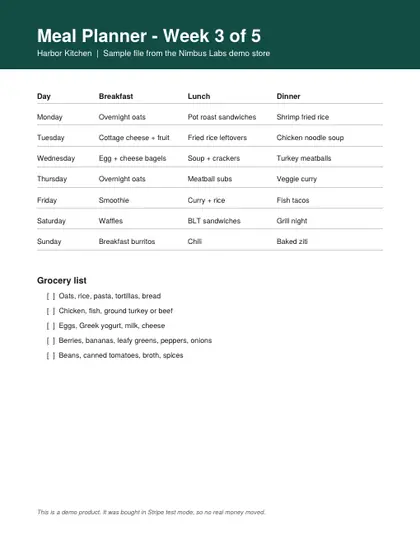
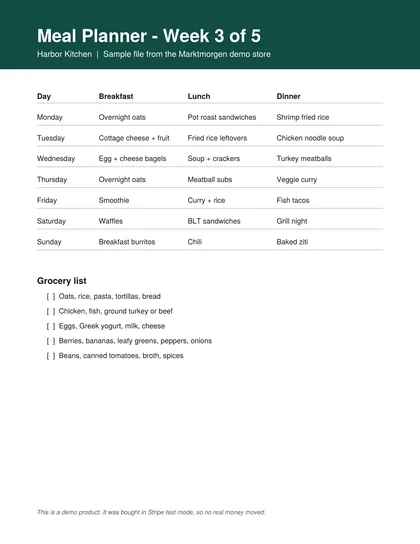
Demo file: the sample PDF and its previews name Marktmorgen
Every page of both demo PDFs, and the four pictures of them on the demo
page, still read "Sample file from the Nimbus Labs demo store". The PDFs
are embedded as base64 in lib/demo-file.ts, so no search for the old
name could see it; it was found by buying the demo file and opening it.

- Both PDFs: the header line and the file's author now say Marktmorgen.
  Nothing else in either file changed (rendered before and after and
  compared).
- public/demo/*.webp: made again from the corrected files, same size.
- tests/demo-file.test.ts opens the embedded files, inflates their
  pages and reads them, so a name inside the file is checked the way a
  buyer would see it.

Claude-Session: https://claude.ai/code/session_01NJwtpG5RSYrnKt4PL8dPmo

diff --git a/lib/demo-file.ts b/lib/demo-file.ts
@@ -2,167 +2,142 @@
 // server function and are never exposed as public static files.
 // Generated by scripts outside the app; do not edit by hand.
 const SINGLE_WEEK = [
[32 lines of base64/hex data omitted]
-  "MDAwMDAwMDYxIDAwMDAwIG4gCjAwMDAwMDAxMTIgMDAwMDAgbiAKMDAwMDAwMDIxOSAwMDAwMCBuIAowMDAwMDAwMzMxIDAwMDAw",
[4 lines of base64/hex data omitted]
-  "CiUlRU9GCg==",
[31 lines of base64/hex data omitted]
+  "NjI2NDMzODMyNzk1Pl0gPj4Kc3RhcnR4cmVmCjIwMzMKJSVFT0YK",
 ];
 
 const FIVE_WEEKS = [
[119 lines of base64/hex data omitted]
-  "RU9GCg==",
[101 lines of base64/hex data omitted]
 ];
 
 const FILES = {

diff --git a/tests/demo-file.test.ts b/tests/demo-file.test.ts
@@ -1,0 +1,66 @@
+/**
+ * The file a buyer of the demo store is handed (lib/demo-file.ts).
+ *
+ * It is embedded as base64, so nothing that searches the code for a word can
+ * see what the file says. That is how every page of both PDFs, and the four
+ * pictures of them on the demo page, went on reading "Sample file from the
+ * Nimbus Labs demo store" after the product had become Marktmorgen: the old
+ * name was nowhere a search for it would look. It was found by buying the
+ * file and opening it.
+ *
+ * So this opens the files the way a reader does, and reads them.
+ */
+import { test } from "node:test";
+import assert from "node:assert/strict";
+import { inflateSync, constants } from "node:zlib";
+import { getDemoFile, type DemoFileName } from "@/lib/demo-file";
+
+const FILES: [DemoFileName, number][] = [
+  ["weekly-meal-planner.pdf", 1],
+  ["meal-planner-5-weeks.pdf", 5],
+];
+
+/** Every content stream of a PDF, inflated, as text. */
+function streams(bytes: Uint8Array): string[] {
+  const raw = Buffer.from(bytes);
+  const text = raw.toString("latin1");
+  const out: string[] = [];
+  const pattern = /stream\r?\n/g;
+  for (let m = pattern.exec(text); m; m = pattern.exec(text)) {
+    const from = m.index + m[0].length;
+    const to = text.indexOf("endstream", from);
+    if (to < 0) break;
+    try {
+      out.push(inflateSync(raw.subarray(from, to), { finishFlush: constants.Z_SYNC_FLUSH }).toString("latin1"));
+    } catch {
+      // Not a compressed stream; nothing a reader sees is in it.
+    }
+  }
+  return out;
+}
+
+for (const [name, pages] of FILES) {
+  test(`${name} is a PDF, and says whose demo it is on every page`, () => {
+    const bytes = getDemoFile(name);
+    assert.equal(Buffer.from(bytes.subarray(0, 5)).toString("latin1"), "%PDF-");
+    const read = streams(bytes).filter((s) => s.includes("Tj"));
+    assert.equal(read.length, pages, "one stream of text for each page");
+    for (const page of read) {
+      assert.ok(page.includes("Sample file from the Marktmorgen demo store"), "each page names the store it is a sample from");
+      assert.ok(page.includes("Harbor Kitchen"));
+    }
+  });
+
+  test(`${name} carries no name the product no longer has, in what is read or in what is kept about it`, () => {
+    const bytes = getDemoFile(name);
+    const everything = [Buffer.from(bytes).toString("latin1"), ...streams(bytes)].join("\n");
+    assert.ok(!/nimbus/i.test(everything), "the old name is in neither the pages nor the file's own details");
+    assert.match(everything, /Harbor Kitchen - Marktmorgen demo store/, "the file's author is the demo store, by today's name");
+  });
+
+  test(`${name} still says it was bought with no real money`, () => {
+    // The one line that keeps a sample from being mistaken for a purchase.
+    const first = streams(getDemoFile(name)).find((s) => s.includes("Tj")) ?? "";
+    assert.ok(first.includes("This is a demo product. It was bought in Stripe test mode, so no real money moved."));
+  });
+}
